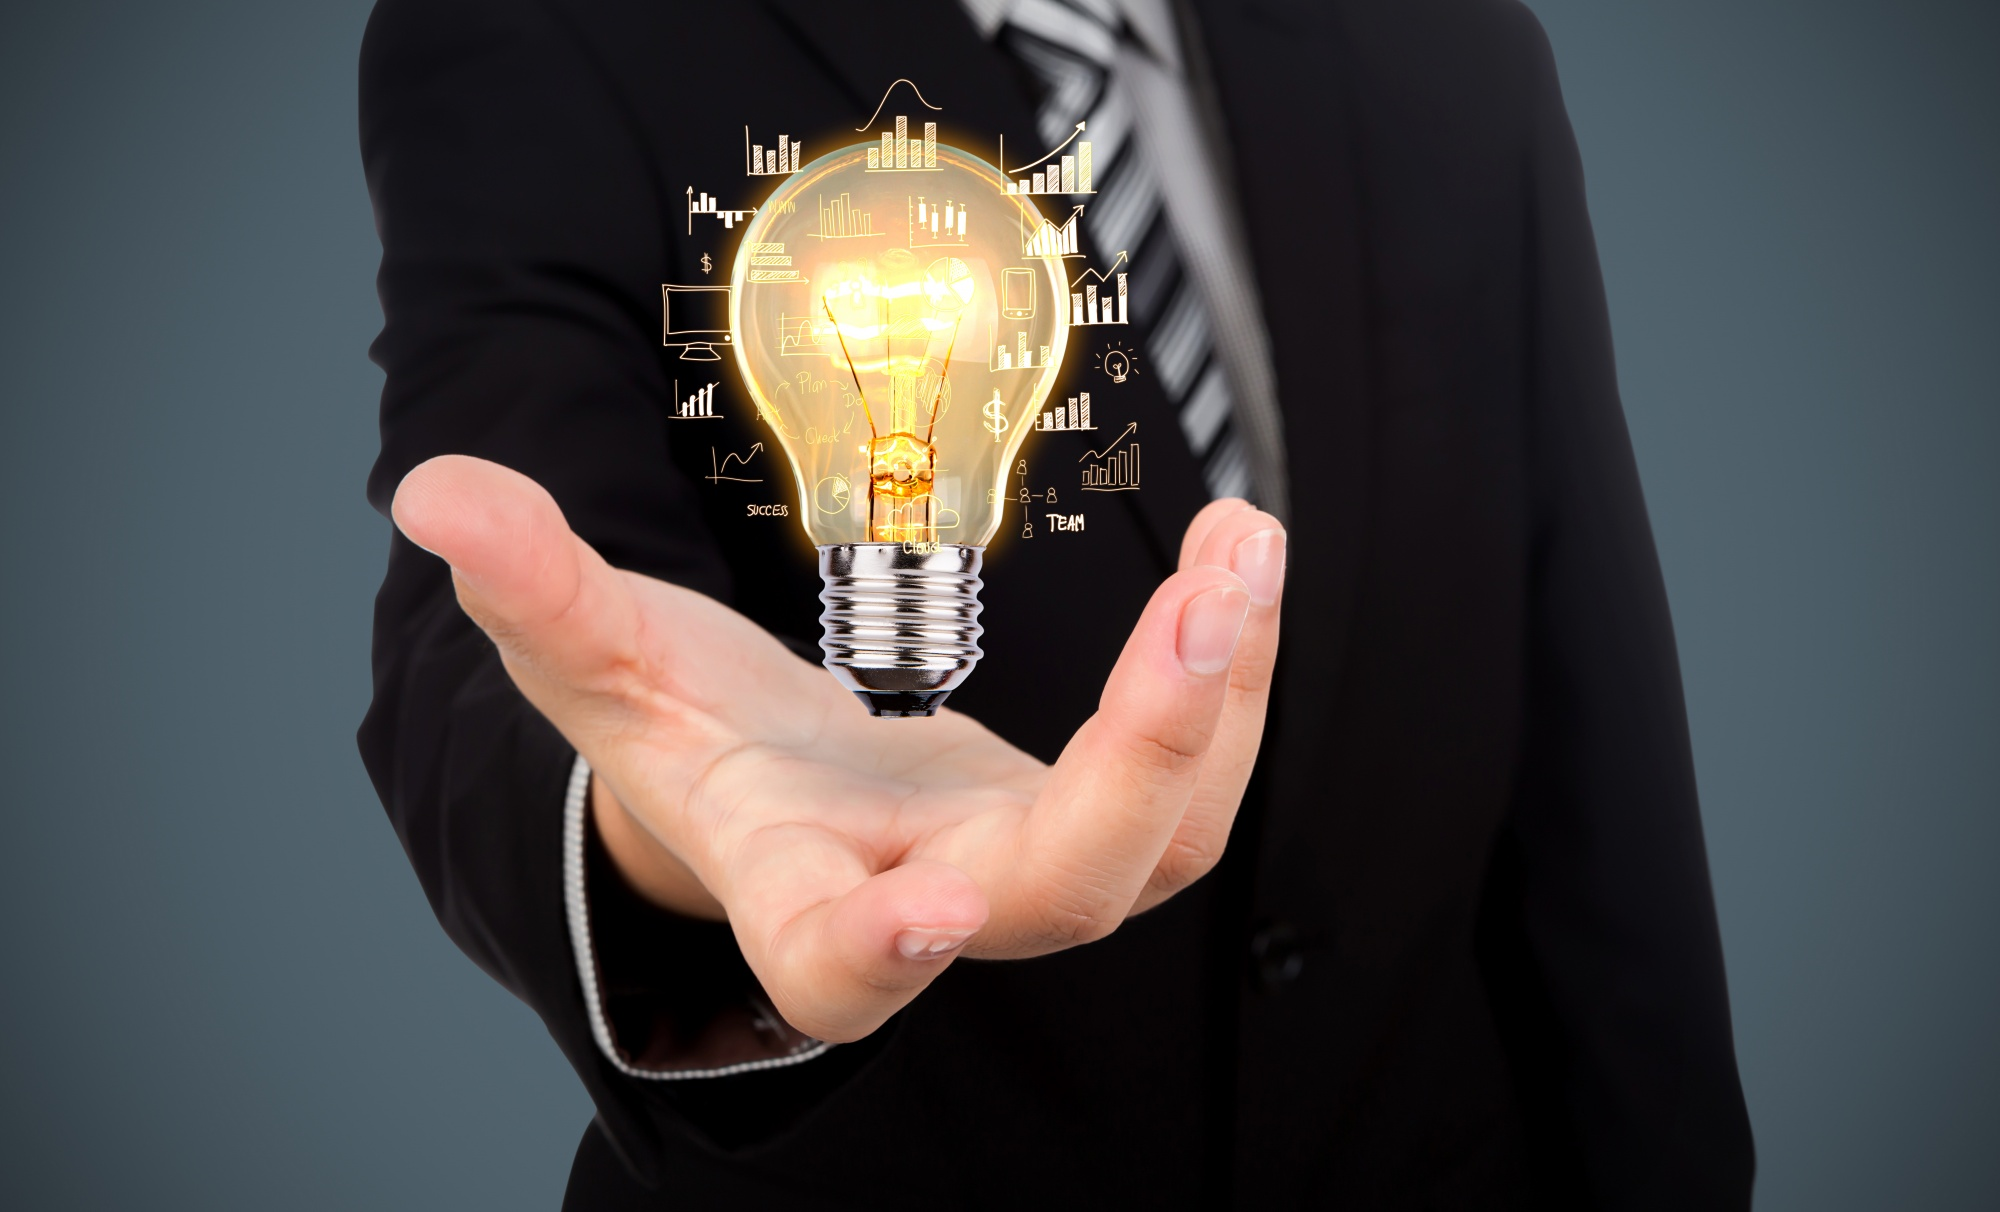
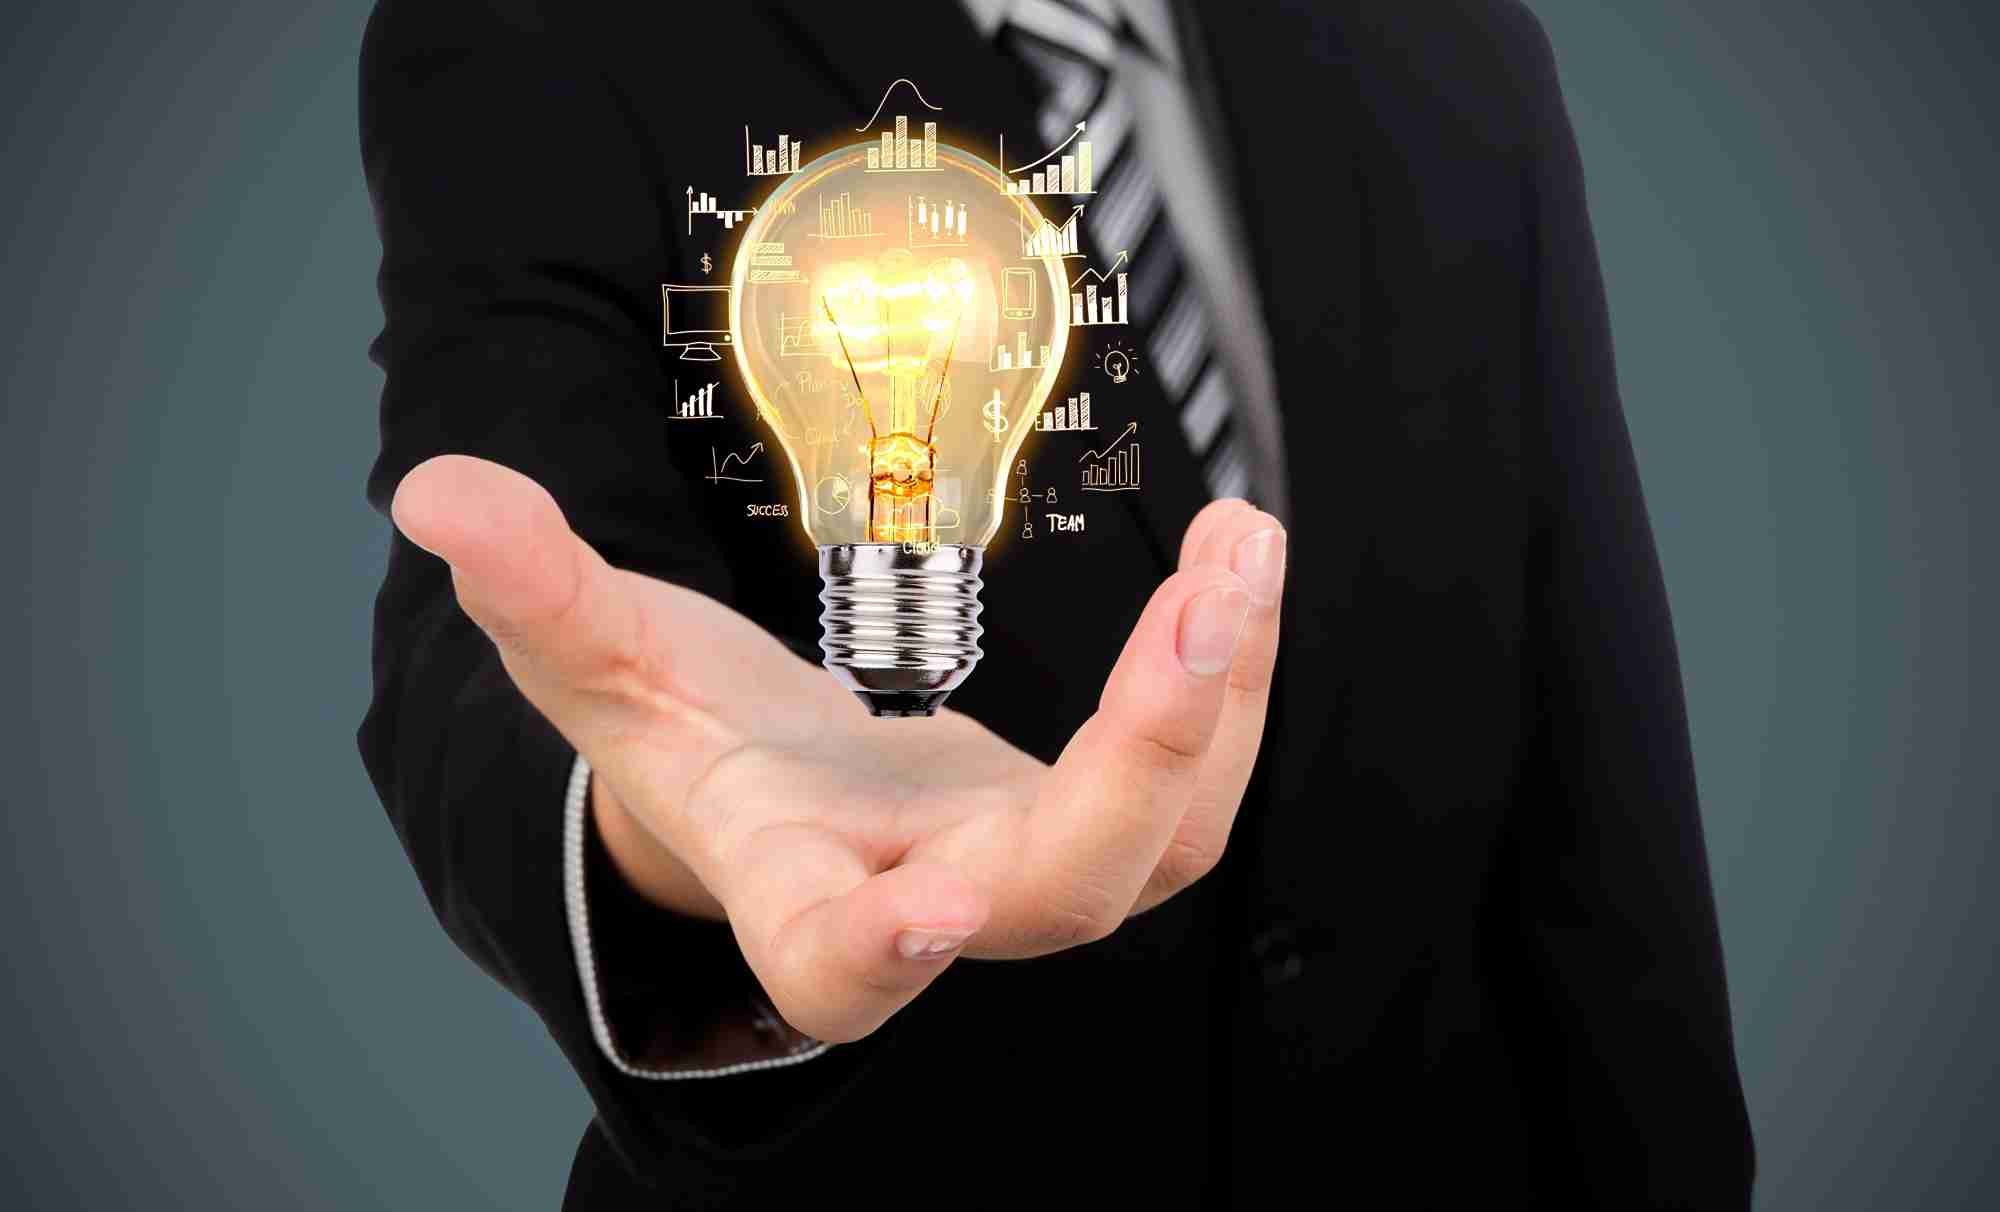
done

diff --git a/src/App.js b/src/App.js
@@ -56,7 +56,7 @@ const App = () => {
   }, []);
 
   if (isRootEmpty) {
-    return <Navigate to="/dev-version/404" replace />;
+    return <Navigate to="/404" replace />;
   }
 
   return (
@@ -64,59 +64,59 @@ const App = () => {
       {/* <ErrorBoundary> */}
       <Routes>
         {/* Default route */}
-        <Route path="/dev-version/" element={<Home />} />
+        <Route path="/" element={<Home />} />
         {/* Aliases for home */}
-        <Route path="/dev-version/home" element={<Navigate to="/dev-version/" replace />} />
-        <Route path="/dev-version/about-us" element={<AboutUs />} />
-        <Route path="/dev-version/history" element={<History />} />
-        <Route path="/dev-version/mission-vision-values" element={<VisionMission />} />
-        <Route path="/dev-version/governing-board" element={<GoverningBoard />} />
-        <Route path="/dev-version/executive-board" element={<ExecutiveBoard />} />
+        <Route path="/home" element={<Navigate to="/" replace />} />
+        <Route path="/about-us" element={<AboutUs />} />
+        <Route path="/history" element={<History />} />
+        <Route path="/mission-vision-values" element={<VisionMission />} />
+        <Route path="/governing-board" element={<GoverningBoard />} />
+        <Route path="/executive-board" element={<ExecutiveBoard />} />
         <Route
-          path="/dev-version/accreditations-endorsements"
+          path="/accreditations-endorsements"
           element={<Recognisation />}
         />
-        <Route path="/dev-version/policies" element={<Policies />} />
-        <Route path="/dev-version/courses" element={<Courses />} />
-        <Route path="/dev-version/online-education" element={<OnlineEducation />} />
-        <Route path="/dev-version/looking-ahead" element={<LookingAhead />} />
+        <Route path="/policies" element={<Policies />} />
+        <Route path="/courses" element={<Courses />} />
+        <Route path="/online-education" element={<OnlineEducation />} />
+        <Route path="/looking-ahead" element={<LookingAhead />} />
         <Route
-          path="/dev-version/industry-connections-and-employability"
+          path="/industry-connections-and-employability"
           element={<IndustryConnections />}
         />
         <Route
-          path="/dev-version/academic-support-&-development"
+          path="/academic-support-&-development"
           element={<AcademicSupport />}
         />
-        <Route path="/dev-version/academic-philosophy" element={<AcademicPhilosophy />} />
+        <Route path="/academic-philosophy" element={<AcademicPhilosophy />} />
         <Route
-          path="/dev-version/academics-at-our-london-campus"
+          path="/academics-at-our-london-campus"
           element={<AcademicsLondon />}
         />
-        <Route path="/dev-version/the-campus-experience" element={<CampusExperience />} />
-        <Route path="/dev-version/student-support" element={<StudentSupport />} />
-        <Route path="/dev-version/student-activities" element={<StudentActivities />} />
+        <Route path="/the-campus-experience" element={<CampusExperience />} />
+        <Route path="/student-support" element={<StudentSupport />} />
+        <Route path="/student-activities" element={<StudentActivities />} />
 
-        <Route path="/dev-version/how-to-find-us" element={<HowToFindUs />} />
+        <Route path="/how-to-find-us" element={<HowToFindUs />} />
 
-        <Route path="/dev-version/research" element={<Research />} />
-        <Route path="/dev-version/admission" element={<Admission />} />
-        <Route path="/dev-version/how-to-apply" element={<HowToApply />} />
+        <Route path="/research" element={<Research />} />
+        <Route path="/admission" element={<Admission />} />
+        <Route path="/how-to-apply" element={<HowToApply />} />
         <Route
-          path="/dev-version/international-students-and-visa-support"
+          path="/international-students-and-visa-support"
           element={<IntStuVisaSupport />}
         />
-        <Route path="/dev-version/tuition-fees" element={<TutionFees />} />
-        <Route path="/dev-version/access-and-participation" element={<AccessParticipation />} />
-        <Route path="/dev-version/student-protection" element={<StudentProtection />} />
-        <Route path="/dev-version/work-for-us" element={<WorkForUs />} />
+        <Route path="/tuition-fees" element={<TutionFees />} />
+        <Route path="/access-and-participation" element={<AccessParticipation />} />
+        <Route path="/student-protection" element={<StudentProtection />} />
+        <Route path="/work-for-us" element={<WorkForUs />} />
         <Route
-          path="/dev-version/partnership-opportunities"
+          path="/partnership-opportunities"
           element={<PartnershipOpportunities />}
         />
         {/* 404 Handling */}
-        {/* <Route path="/dev-version/404" element={<NotFoundPage />} />
-          <Route path="*" element={<Navigate to="/dev-version/404" replace />} /> */}
+        {/* <Route path="/404" element={<NotFoundPage />} />
+          <Route path="*" element={<Navigate to="/404" replace />} /> */}
       </Routes>
       {/* </ErrorBoundary> */}
     </Router>

diff --git a/src/components/common/Menubar.js b/src/components/common/Menubar.js
@@ -2,8 +2,8 @@ import React, { useState, useEffect, useRef } from "react";
 import axios from "axios";
 import Slider from "react-slick";
 import { Row } from "react-bootstrap";
-import logo from "../../Images/logo/isbm-university.png";
-import logoWhite from "../../Images/logo/ISBMU LONDON WHITE LOGO.png";
+import logo from "../../Images/logo/isbm-university.jpg";
+import logoWhite from "../../Images/logo/ISBMU LONDON WHITE LOGO.jpg";
 import logoRec from "../../Images/logo/accredition.png";
 import menubarIcon from "../../Images/icons/menu.png";
 import { Carousel } from "react-bootstrap";

diff --git a/src/components/academics/IndustryConnections.js b/src/components/academics/IndustryConnections.js
@@ -13,7 +13,7 @@ import Topnav from "../common/Topnav";
 import Footer from "../common/Footer";
 import bannerImage from "../../Images/Banner/courseBanner.webp";
 import futureImage from "../../Images/Banner/vision-mission-banner.jpg";
-import academicstudent from "../../Images/academic/university-cap-throw-students.png";
+import academicstudent from "../../Images/academic/university-cap-throw-students.jpg";
 
 const IndustryConnections = () => {
   return (

diff --git a/src/components/academics/AcademicSupport.js b/src/components/academics/AcademicSupport.js
@@ -13,7 +13,7 @@ import Topnav from "../common/Topnav";
 import Footer from "../common/Footer";
 import bannerImage from "../../Images/Banner/courseBanner.webp";
 import futureImage from "../../Images/Banner/vision-mission-banner.jpg";
-import academicstudent from "../../Images/academic/university-cap-throw-students.png";
+import academicstudent from "../../Images/academic/university-cap-throw-students.jpg";
 
 const AcademicSupport = () => {
   return (

diff --git a/src/components/common/Footer.js b/src/components/common/Footer.js
@@ -8,7 +8,7 @@ import twitter from "../../Images/icons/twitter.png";
 import instagram from "../../Images/icons/instagram.png";
 import linkedin from "../../Images/icons/linkedin.png";
 import youtube from "../../Images/icons/youtube.png";
-import logoWhite from "../../Images/logo/ISBMU LONDON WHITE LOGO.png";
+import logoWhite from "../../Images/logo/ISBMU LONDON WHITE LOGO.jpg";
 import EnquiryNow from "./EnquiryNow";
 
 const Footer = () => {

diff --git a/src/components/academics/AcademicPhilosophy.js b/src/components/academics/AcademicPhilosophy.js
@@ -4,7 +4,7 @@ import Footer from "../common/Footer";
 import { Row, Col } from "react-bootstrap";
 import bannerImage from "../../Images/Banner/courseBanner.webp";
 import { Link } from "react-router-dom";
-import academicstudent from "../../Images/academic/university-cap-throw-students.png";
+import academicstudent from "../../Images/academic/university-cap-throw-students.jpg";
 
 const AcademicPhilosophy = () => {
   return (

diff --git a/src/components/academics/AcademicsLondon.js b/src/components/academics/AcademicsLondon.js
@@ -4,7 +4,7 @@ import Footer from "../common/Footer";
 import { Row, Col } from "react-bootstrap";
 import bannerImage from "../../Images/Banner/courseBanner.webp";
 import { Link } from "react-router-dom";
-import academicstudent from "../../Images/academic/university-cap-throw-students.png";
+import academicstudent from "../../Images/academic/university-cap-throw-students.jpg";
 
 const AcademicsLondon = () => {
   return (

diff --git a/src/components/home/AboutSec.js b/src/components/home/AboutSec.js
@@ -3,7 +3,7 @@ import React from "react";
 import AACSBLogo from "../../Images/accrediations/aacsb.png";
 import NaacLogo from "../../Images/accrediations/Naac.jpg";
 import IAOULogo from "../../Images/accrediations/iaou.png";
-import unImage from "../../Images/home/unimage.png";
+import unImage from "../../Images/home/unimage.jpg";
 import unStudentImage from "../../Images/home/unstudent.jpg";
 
 const AboutSec = () => {

diff --git a/src/components/home/BannerMob.js b/src/components/home/BannerMob.js
@@ -3,7 +3,7 @@ import axios from "axios";
 import Slider from "react-slick";
 
 import { Row } from "react-bootstrap";
-import logo from "../../Images/logo/isbm-university.png";
+import logo from "../../Images/logo/isbm-university.jpg";
 import { Carousel } from "react-bootstrap";
 import MenubarMob from "../common/MenubarMob";
 

diff --git a/src/components/common/MenubarMob.js b/src/components/common/MenubarMob.js
@@ -1,6 +1,6 @@
 import React, { useState, useEffect, useRef } from "react";
 import axios from "axios";
-import logo from "../../Images/logo/isbm-university.png";
+import logo from "../../Images/logo/isbm-university.jpg";
 
 const MenubarMob = () => {
   const [isOpen, setIsOpen] = useState(false);
